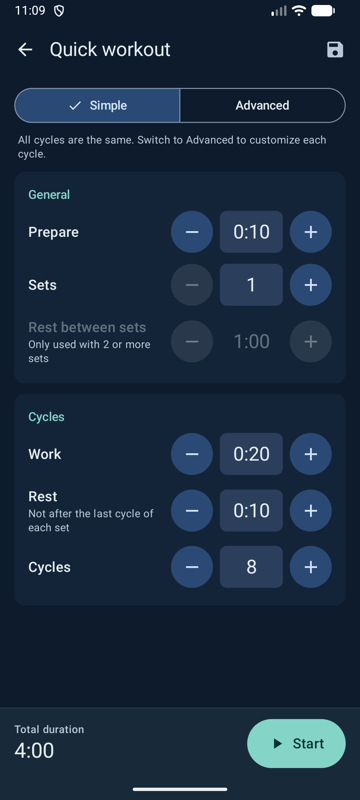
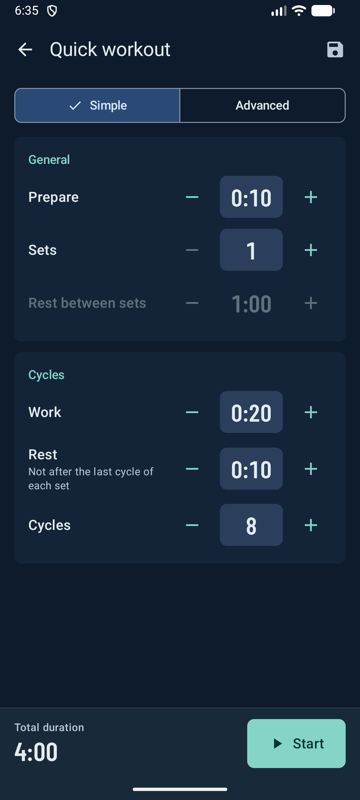
Update README and screenshots for the UI refresh
Home, editor, run and routines screenshots (English, dark theme, run
screen on the full phase color); README describes the quick start row,
the run screen colors, the routine columns, the condensed font with its
license and the UIKit iOS shell.

diff --git a/README.md b/README.md
@@ -8,7 +8,7 @@ in the [`shared`](./shared/src) module, and the platform apps are thin entry poi
 
 | Home | Workout editor | Run screen | Routines |
 |:---:|:---:|:---:|:---:|
-| <img src="docs/screenshots/home.png" alt="Home with the quick workout card and two saved workouts" width="200"> | <img src="docs/screenshots/editor.png" alt="Workout editor in simple mode" width="200"> | <img src="docs/screenshots/run.png" alt="Run screen during a work phase with the progress ring" width="200"> | <img src="docs/screenshots/routines.png" alt="Routines tab with three exercises, one ready to increase its weight" width="200"> |
+| <img src="docs/screenshots/home.png" alt="Home with the quick start row and two saved workouts" width="200"> | <img src="docs/screenshots/editor.png" alt="Workout editor in simple mode" width="200"> | <img src="docs/screenshots/run.png" alt="Run screen during a work phase, on the full phase color" width="200"> | <img src="docs/screenshots/routines.png" alt="Routines tab with three exercises in columns, one ready to increase its weight" width="200"> |
 
 ## Stack
 
@@ -25,6 +25,7 @@ The run screen uses MVI because a running workout is a state machine with a pure
 ## Features
 
 - **Quick workout**: set preparation, work, rest, cycles, sets and rest between sets, then start right away without saving.
+  The Home "Quick start" row shows the last quick configuration ("1 × 8 · 20/10") and starts it again with one tap.
   A cycle is work + rest, except the last cycle of each set, which is work only.
 - **Simple and advanced mode** in the same editor: advanced mode lets every cycle have its own name, work and rest time.
   Switching to advanced copies the simple values into each cycle; switching back asks for confirmation if the cycles differ.
@@ -33,14 +34,16 @@ The run screen uses MVI because a running workout is a state machine with a pure
 - **Saved workouts**: up to 50, each with a unique name and an optional description.
 - **Home list** sortable by custom order (reorder mode, move to top/bottom), name, most used, newest/oldest, shortest/longest.
   The chosen sort is remembered.
-- **Run screen**: progress ring with phase colors, remaining seconds of the current activity, its name, next activity,
-  total time remaining, set/cycle indicators, pause/resume, skip, stop. Audio and haptic cues (can be turned off), an optional
+- **Run screen**: the whole screen takes the color of the phase (work, rest, prepare, rest between sets), with a progress
+  ring, remaining seconds of the current activity, its name, next activity, total time remaining and a total progress bar,
+  cycle/set counter, pause/resume, skip, stop. Audio and haptic cues (can be turned off), an optional
   warning 10 seconds before the end of an activity, screen kept on. The timer is drift-free and auto-pauses when the app goes to the background.
 - **Routines** ("Schede", second tab of the bottom bar): gym routines, independent from the timer, to check and update
   while training. Up to 20 routines with unique names, up to 50 exercises each. Each exercise has name, optional
   description, sets × reps, an optional weight (half-kilo steps, same for every set) and what to do next time:
-  **Increase** (with an increment, default 2 kg) or **Repeat**. The progression badge on the card toggles with a tap;
-  for Increase, "Next time: 16 kg" + **Apply** updates the weight and switches back to Repeat, with Undo.
+  **Increase** (with an increment, default 2 kg) or **Repeat**. Exercises are shown as aligned columns (sets × reps, kg, A/R);
+  the A/R circle toggles with a tap; for Increase, "Next 16 · **Apply**" updates the weight and switches back to Repeat,
+  with Undo. A reorder mode moves exercises up and down.
   Up to 3 routines are switched with segmented buttons, from 4 with a dropdown; the last routine shown is remembered.
   A separate screen renames, duplicates, deletes and reorders routines. Weights are typed with the same keypad,
   with a ",5" key for the half kilo.
@@ -48,6 +51,8 @@ The run screen uses MVI because a running workout is a state machine with a pure
 - **Theme**: light, dark or system.
 - **About** section in the settings with the app version and a link to the developer website.
 - App icon (stopwatch with lightning bolt) and splash screen on both platforms.
+- Numbers and a few titles use **Barlow Condensed** (SIL Open Font License 1.1, see
+  [`docs/licenses/BarlowCondensed-OFL.txt`](./docs/licenses/BarlowCondensed-OFL.txt)).
 
 ## Requirements
 
@@ -90,7 +95,7 @@ Tests live in `shared/src/commonTest` and run on both platforms:
     in `com.amasesoft.amaseset.resources`.
 - `shared/src/androidMain`, `shared/src/iosMain` – platform `actual` implementations.
 - [`androidApp`](./androidApp) – Android entry point (`MainActivity`), launcher icon and splash theme.
-- [`iosApp`](./iosApp) – SwiftUI entry point hosting the Compose UI, app icon and launch screen.
+- [`iosApp`](./iosApp) – UIKit entry point (scene delegate + root view controller) hosting the Compose UI, app icon and launch screen.
 - [`design/icon`](./design/icon) – source SVGs of the app icon. If they change, regenerate the iOS PNGs and update the
   Android vector drawables (`androidApp/src/main/res/drawable/ic_launcher_*.xml`) by hand.
 
